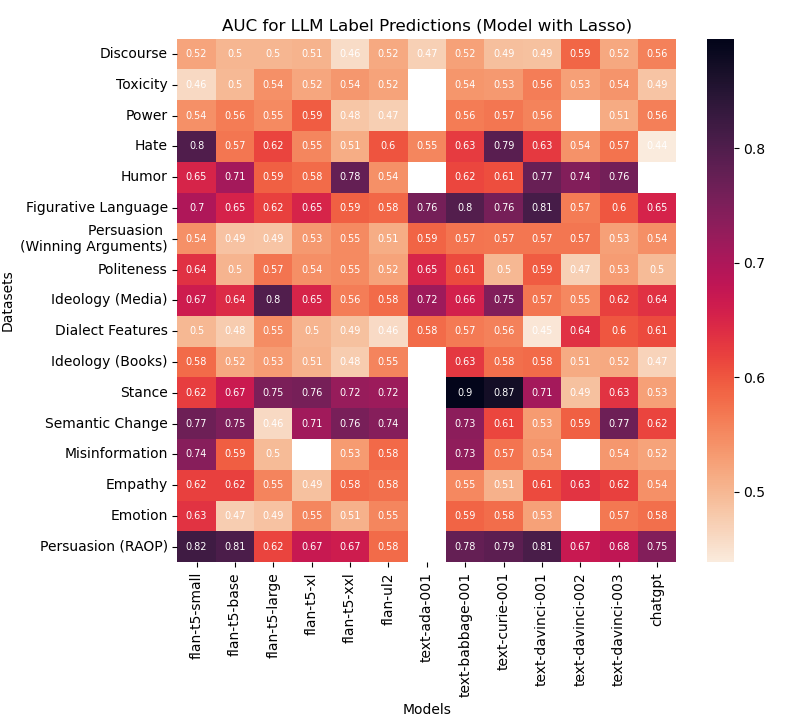
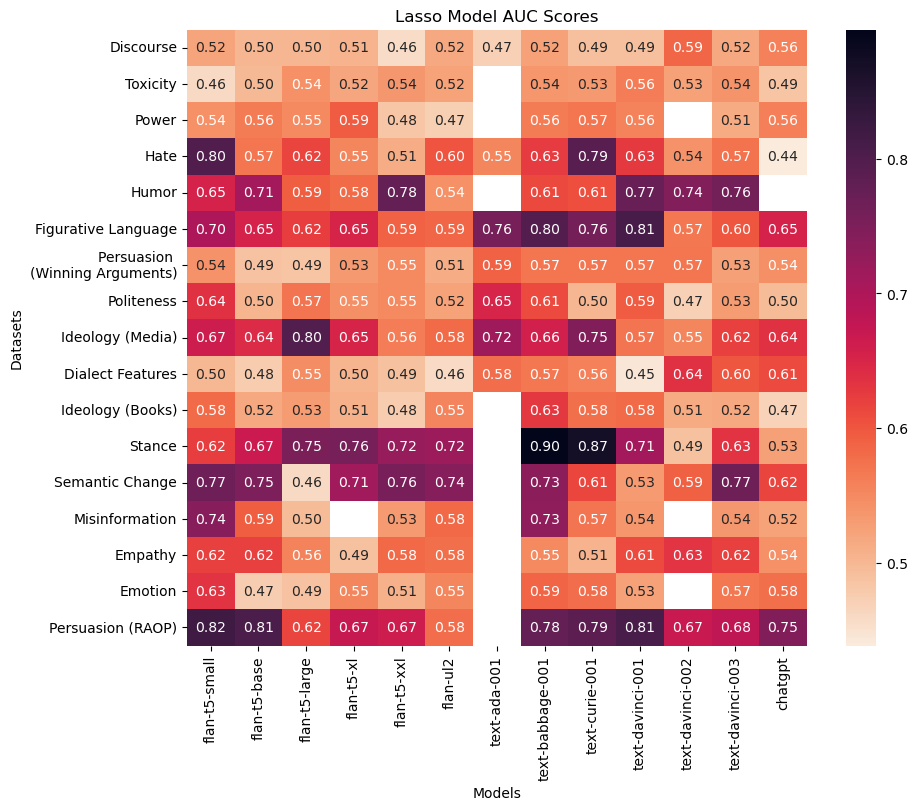
better organization

diff --git a/zeims_et_al_clean/code/predict_errors.py b/zeims_et_al_clean/code/predict_errors.py
@@ -1,3 +1,4 @@
+import os
 import pandas as pd
 import numpy as np
 import matplotlib.pyplot as plt
@@ -14,6 +15,11 @@ from sklearn.metrics import accuracy_score, classification_report, roc_curve, au
 
 from css_mappings import DATASETS, DATASETS_NAMES, MODELS
 import seaborn as sns
+
+# make sure we're working in this directory
+script_path = os.path.abspath(__file__)
+script_directory = os.path.dirname(script_path)
+os.chdir(script_directory)
 
 # NLTK required downloads
 nltk.download('stopwords')
@@ -52,7 +58,7 @@ def bag_of_words(data):
 
 # function to load dataset given dataset number
 def load_dataset(dataset, model):
-    data = pd.read_csv(dataset + '.csv')
+    data = pd.read_csv('../data/' + dataset + '.csv')
     
     X = bag_of_words(data)
     y = data[model + '_correct'].to_list()
@@ -77,19 +83,17 @@ def auc_bar_by_model(lasso_auc_list, ridge_auc_list, dataset_list, model_name):
     ax.set_xticklabels(dataset_list, rotation=90) 
     ax.legend()
 
-    plt.savefig(f'../figures/auc_by_task/{model_name}_auc_by_task.png', bbox_inches='tight')
+    plt.savefig(f'../figures/auc_by_model/{model_name}_auc_by_task.png', bbox_inches='tight')
 
 # function to plot and save heatmaps
 def auc_heatmap(heatmap_array, model_type):
-    df = pd.DataFrame(heatmap_array, index=DATASETS, columns=MODELS)
+    df = pd.DataFrame(heatmap_array, index=DATASETS_NAMES.values(), columns=MODELS)
     plt.figure(figsize=(10, 8))
-    sns.heatmap(df, annot=True, fmt=".2f", cbar=True)
+    sns.heatmap(df, annot=True, fmt=".2f", cbar=True, cmap = "rocket_r")
     plt.title(f'{model_type} Model AUC Scores')
     plt.ylabel('Datasets')
     plt.xlabel('Models')
-    
     plt.savefig(f'../figures/heatmaps/model_with_{model_type}.png', bbox_inches='tight')
-
 
 # function to plot auc
 def roc_plot(tpr, fpr, auc_score, model_name):
@@ -103,8 +107,8 @@ def roc_plot(tpr, fpr, auc_score, model_name):
 def main():
 
     # for making figures
-    heatmap_lasso = np.zeros((len(DATASETS), len(MODELS)))
-    heatmap_ridge = np.zeros((len(DATASETS), len(MODELS)))
+    heatmap_lasso = np.full((len(DATASETS), len(MODELS)), np.nan)
+    heatmap_ridge = np.full((len(DATASETS), len(MODELS)), np.nan)
     results = []
 
     # iterate over LLMS
@@ -166,8 +170,8 @@ def main():
 
     # Figures
     # heatmaps
-    auc_heatmap(heatmap_lasso)
-    auc_heatmap(heatmap_ridge)
+    auc_heatmap(heatmap_lasso, 'Lasso')
+    auc_heatmap(heatmap_ridge, 'Ridge')
 
     # Summary dataframe. Can also turn this into a by-task bar chart
     df = pd.DataFrame(results, columns=['Dataset', 'Model', 'Method', 'AUC'])

diff --git a/egami_et_al/code/predict_errors.py b/egami_et_al/code/predict_errors.py
@@ -1,3 +1,4 @@
+import os
 import pandas as pd
 import numpy as np
 import matplotlib.pyplot as plt
@@ -12,6 +13,12 @@ from sklearn.model_selection import train_test_split
 from sklearn.linear_model import LogisticRegression, RidgeClassifier
 from sklearn.metrics import accuracy_score, classification_report, roc_curve, auc
 
+# make sure we're working the code directory
+script_path = os.path.abspath(__file__)
+script_directory = os.path.dirname(script_path)
+os.chdir(script_directory)
+
+# define constants
 DATASETS = ["balanced", "imbalanced"]
 MODELS = ["gpt3_0shot", "gpt3_5shot"]
 MODEL_NAMES = {"gpt3_0shot": "GPT-3 0-Shot Prompting", 
@@ -54,7 +61,7 @@ def bag_of_words(data):
 
 # function to load dataset given dataset number
 def load_dataset(dataset, model):
-    data = pd.read_csv(dataset + '.csv')
+    data = pd.read_csv('../data/' + dataset + '.csv')
     
     X = bag_of_words(data)
     y = data[model + '_correct'].to_list()
@@ -118,7 +125,7 @@ def main():
             plt.figure()
             roc_plot(tpr_lasso, fpr_lasso, auc_score=auc_score_lasso, model_name="log reg w/ lasso", dataset = dataset, model = model)
             roc_plot(tpr_ridge, fpr_ridge, auc_score=auc_score_ridge, model_name="log reg w/ ridge", dataset = dataset, model = model)
-            plt.savefig(f"./figures/{dataset}/{model}.png", bbox_inches = "tight")
+            plt.savefig(f"../figures/{dataset}/{model}.png", bbox_inches = "tight")
 
     
 
